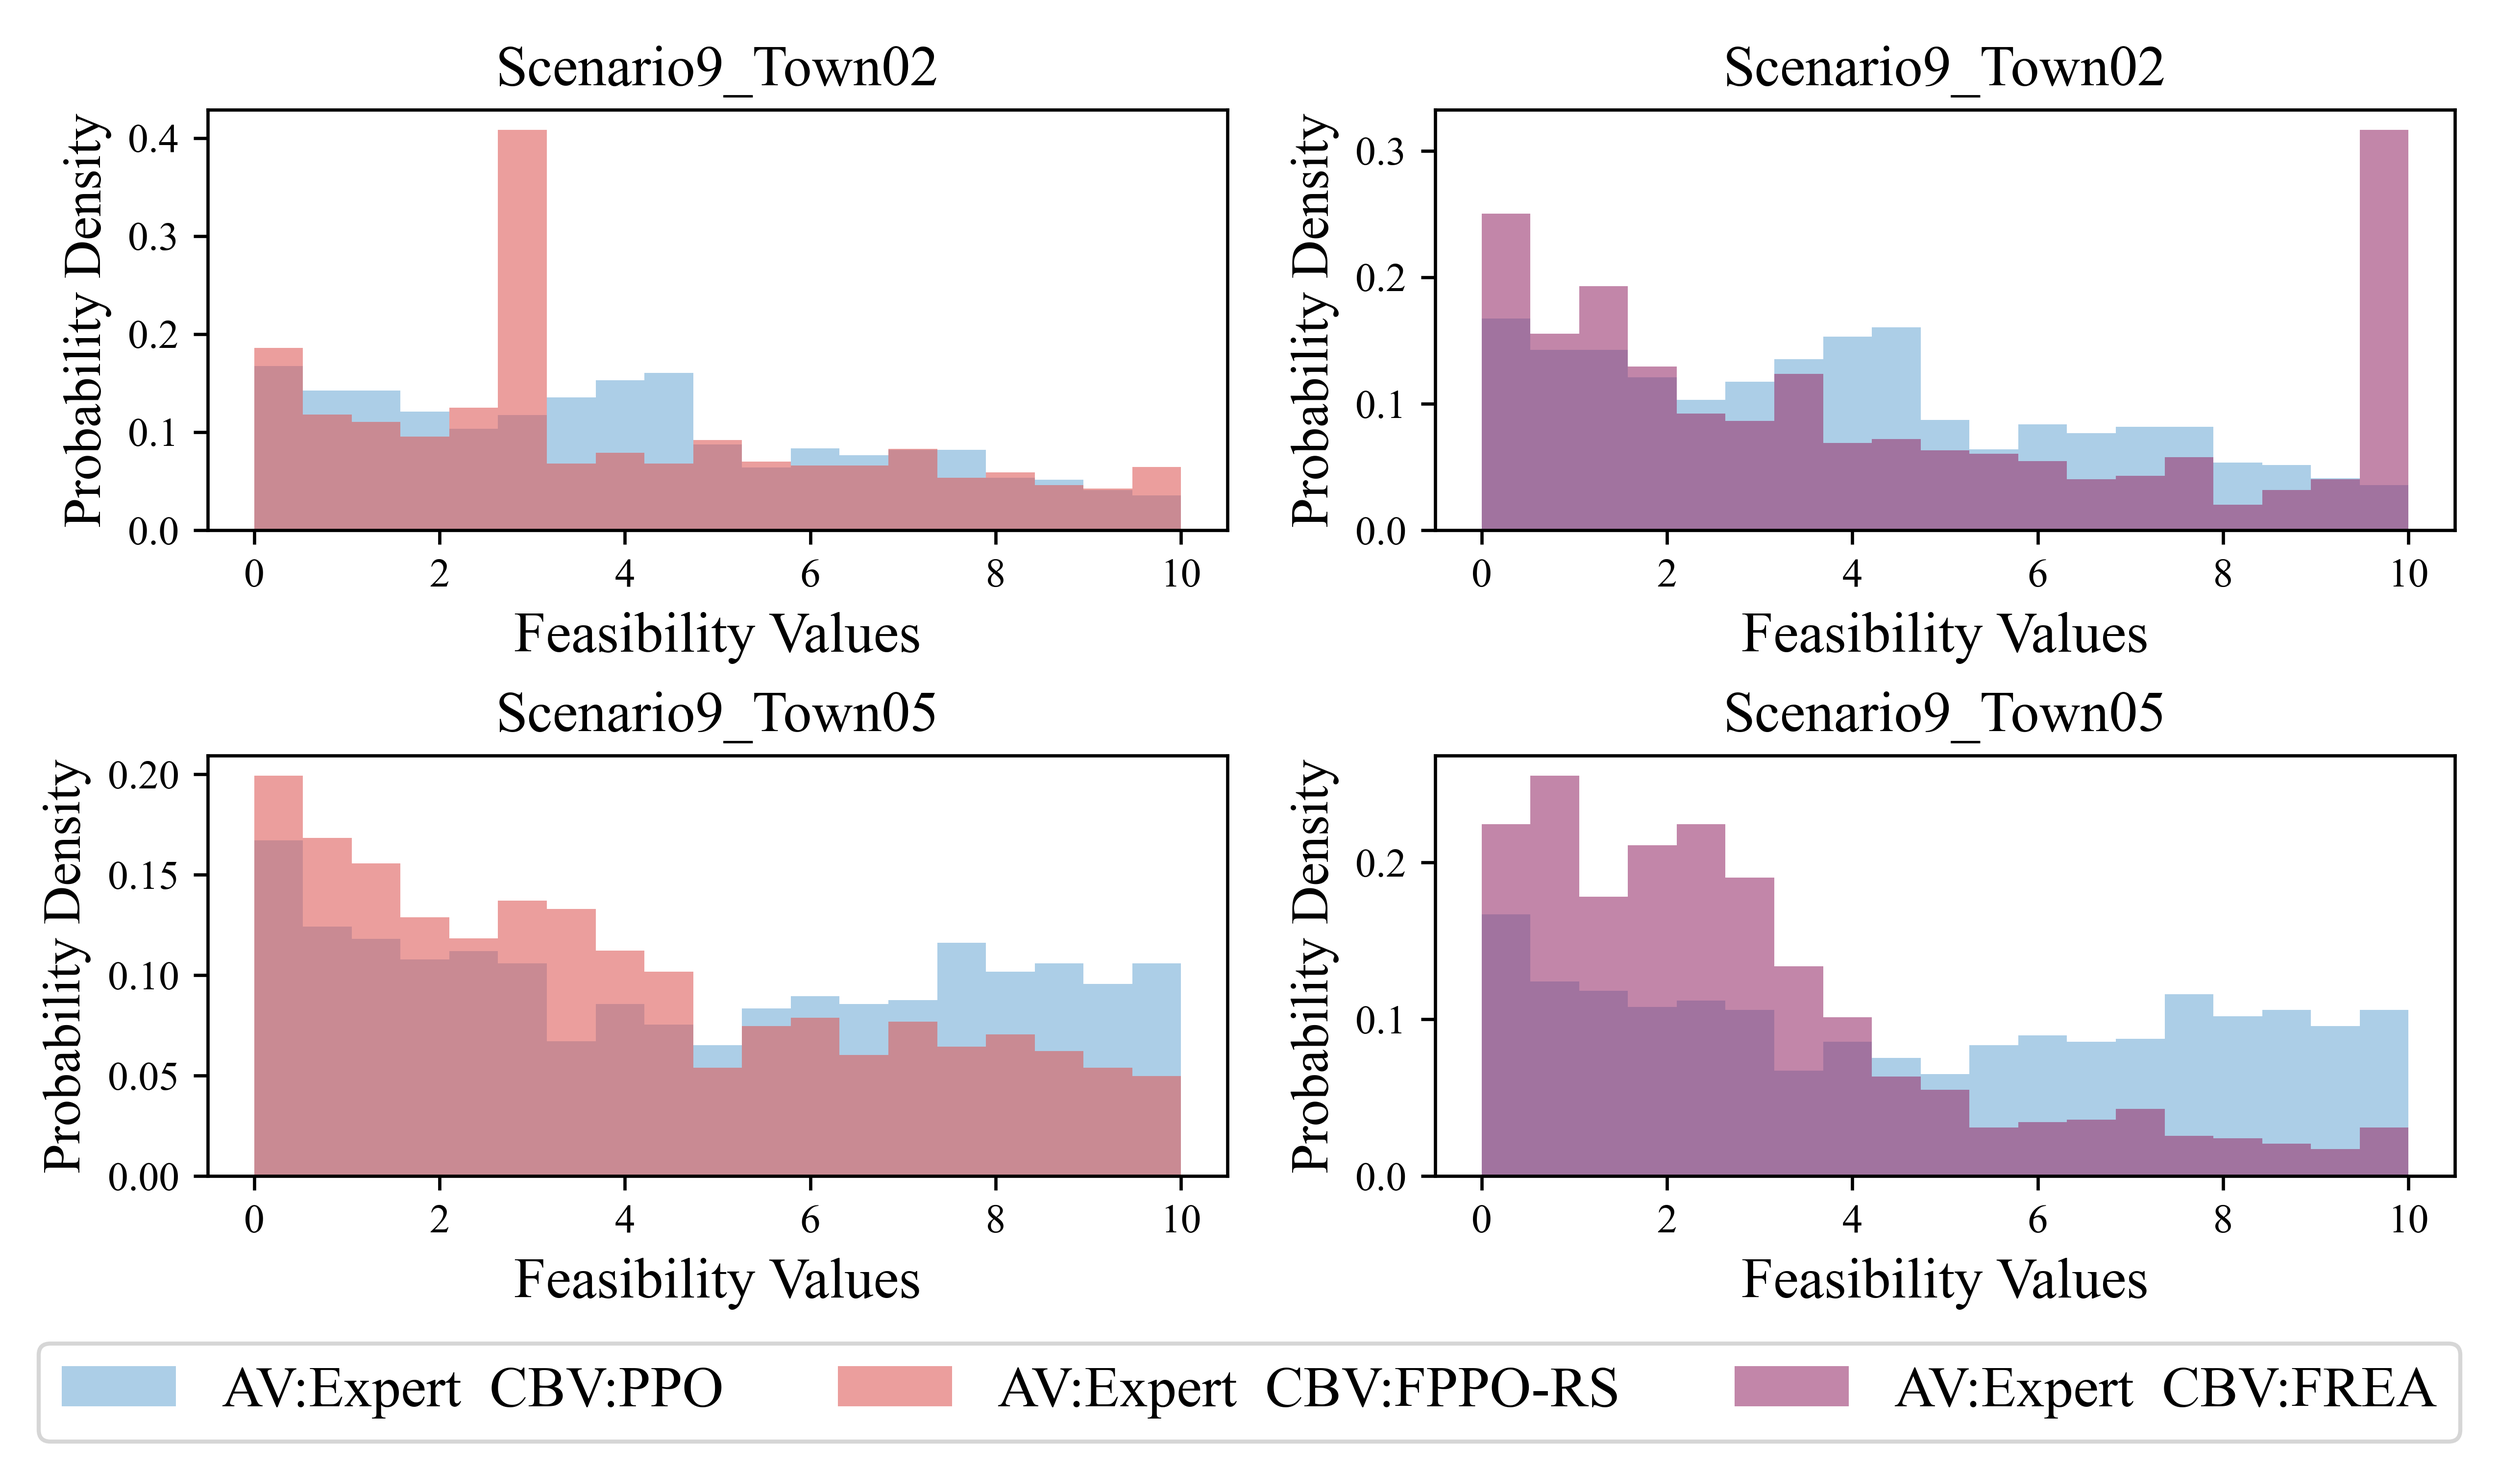
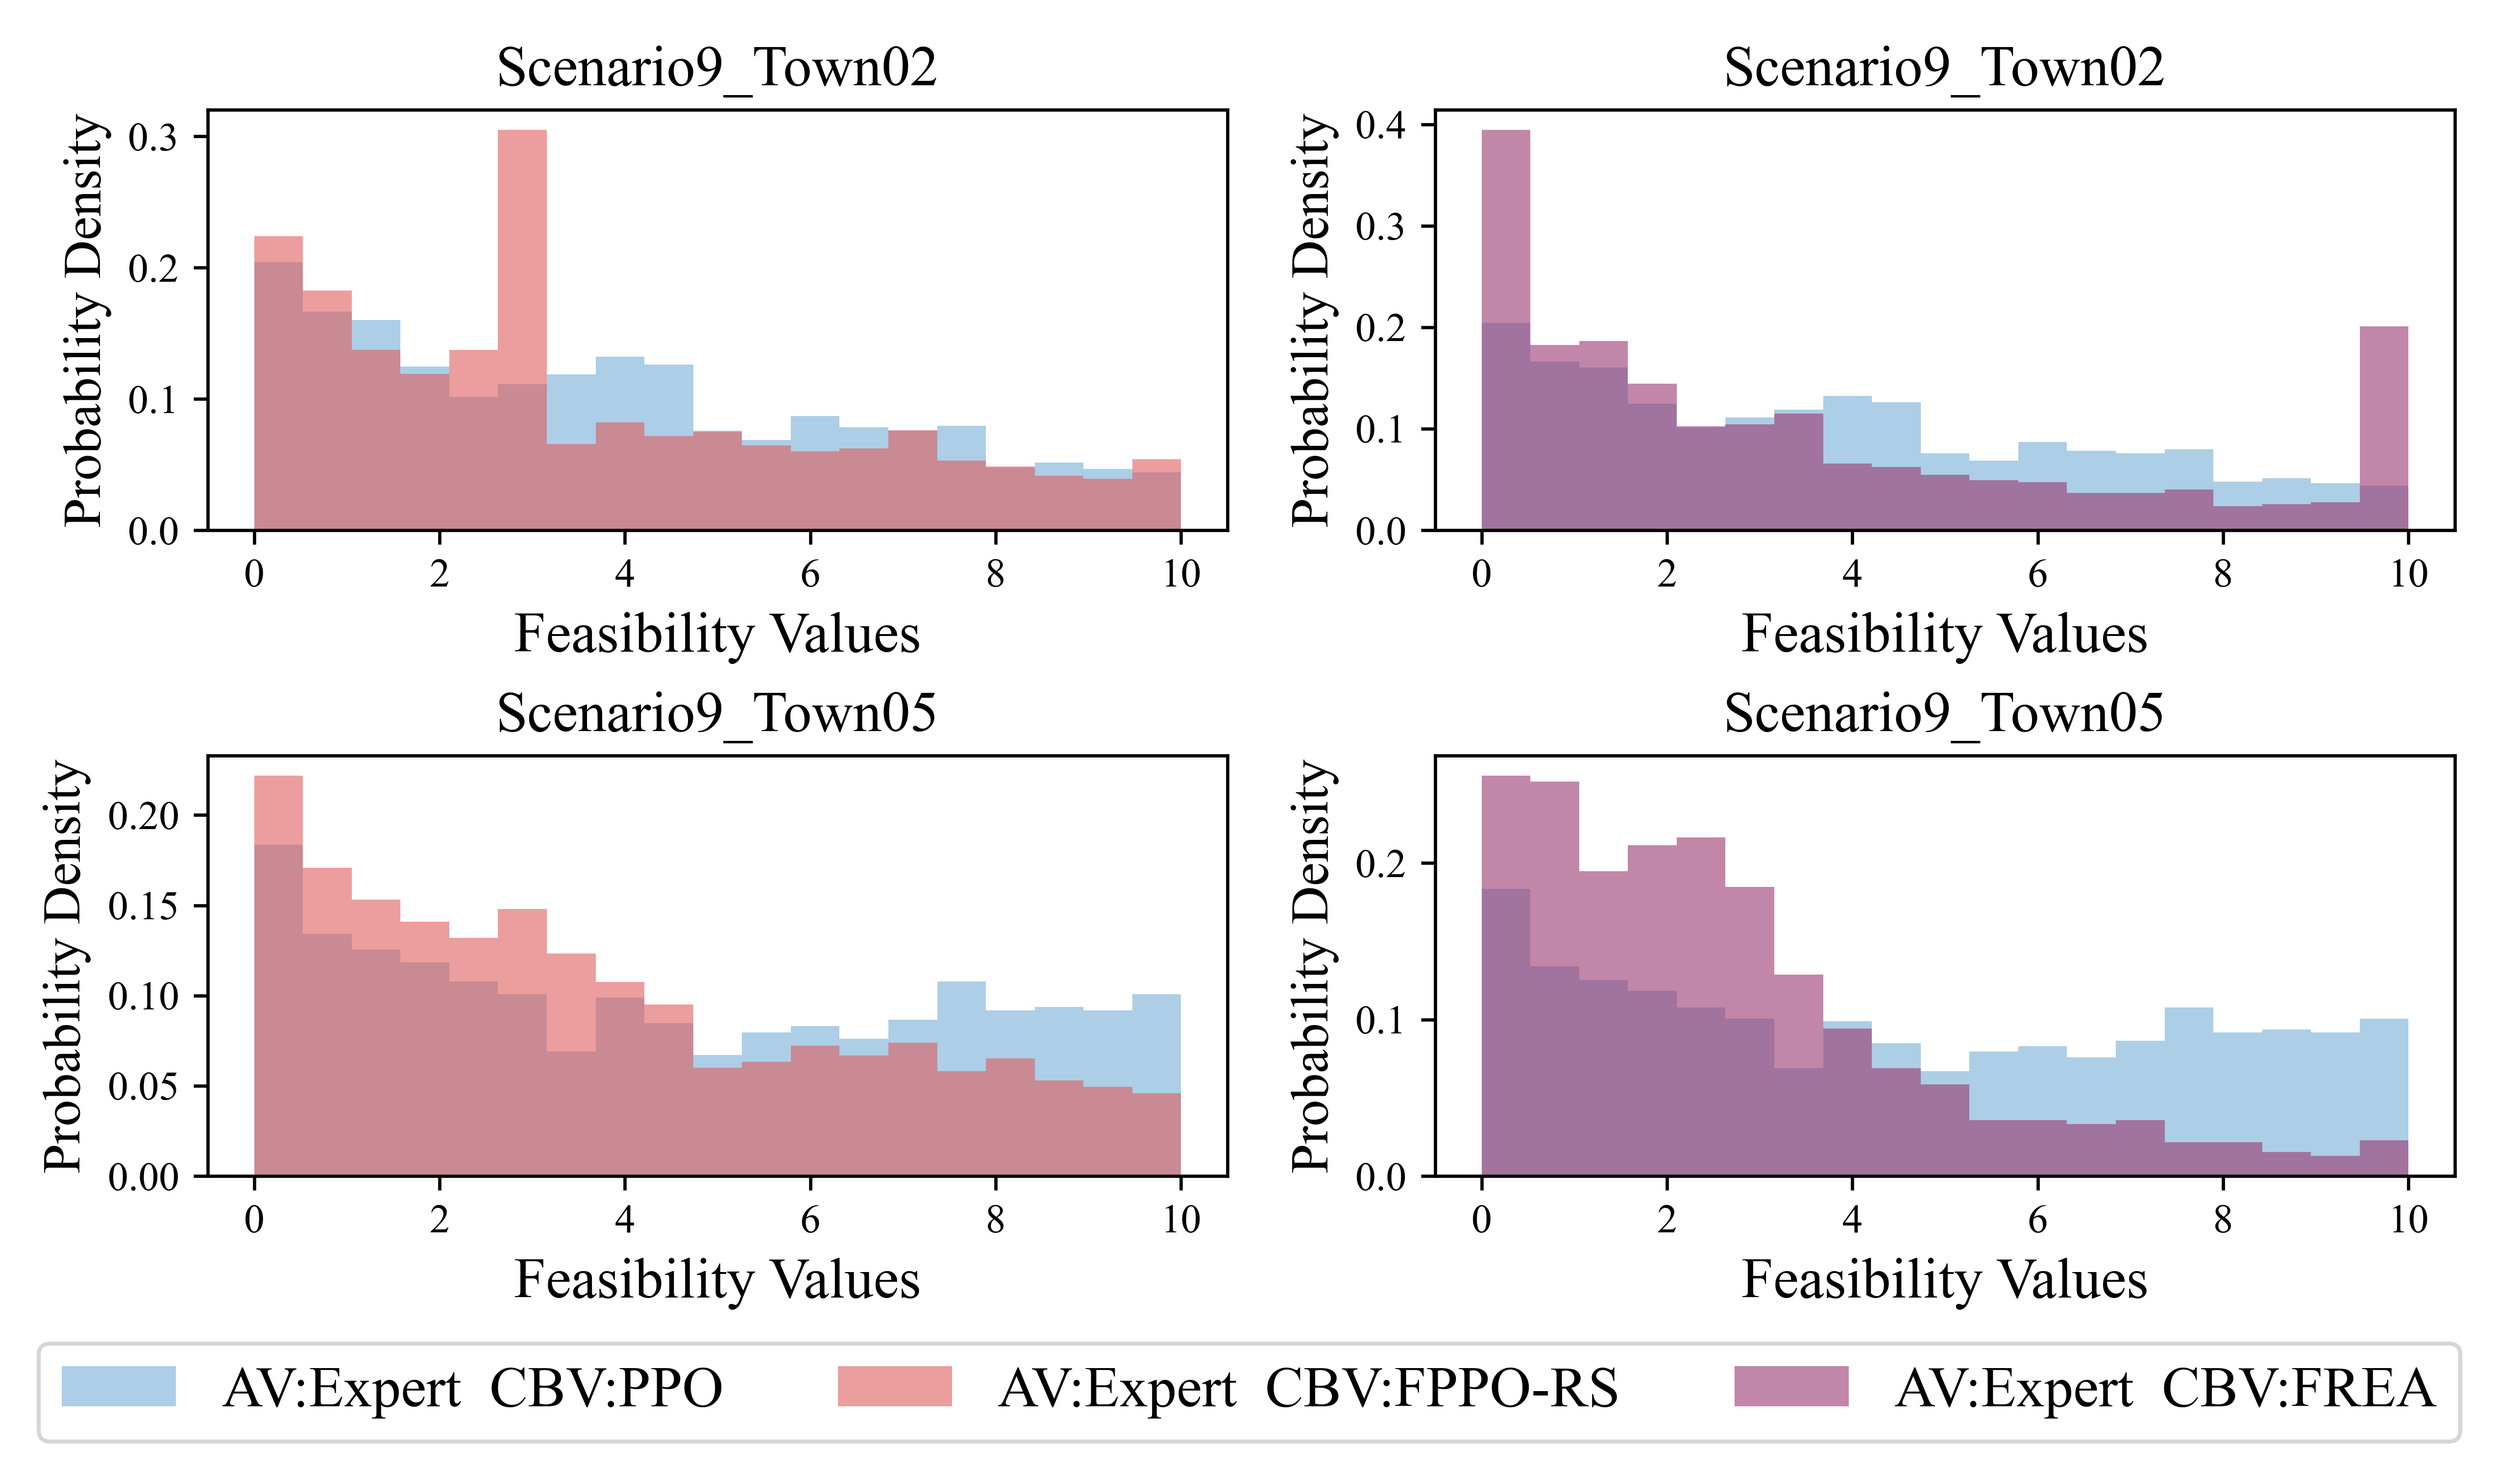
update the train ego config and eval analysis

diff --git a/eval_analysis/process_data/all_trajectory.py b/eval_analysis/process_data/all_trajectory.py
@@ -202,7 +202,7 @@ def get_all_BV_trajectory(sequence):
     return all_trajectories
 
 
-def get_closest_trajectory(sequence, threshold=2):
+def get_closest_trajectory(sequence, threshold=5):
     # convert id list to set
     for step in sequence:
         step['CBVs_id_set'] = set(step['CBVs_id'])
